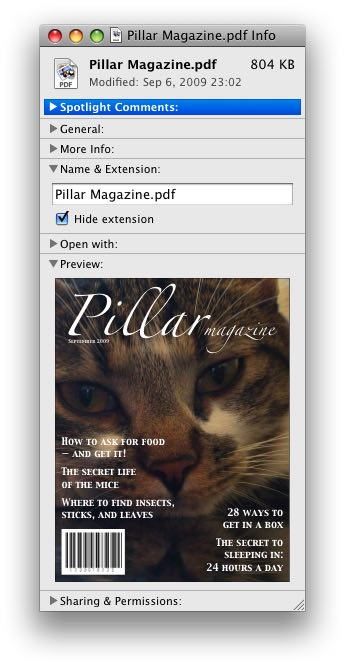
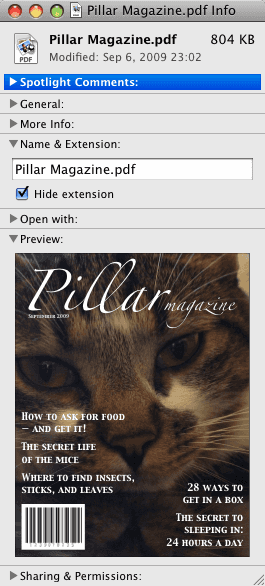
編集（画像調整

diff --git a/HTML-interactive-elements-ja.html b/HTML-interactive-elements-ja.html
@@ -1160,12 +1160,14 @@ table.propdef td {
 <img id="_dgm-sample-details-1"
 	src="HTML-interactive-elements/sample-details-1.png"
 	alt=""
-	width="345" height="611"
+	width="265" height="531"
+	style="box-shadow:0px 10px 10px 10px silver; margin: 20px;"
 >
 <img id="_dgm-sample-details-2"
 	src="HTML-interactive-elements/sample-details-2.png"
 	alt=""
-	width="345" height="666"
+	width="265" height="586"
+	style="box-shadow:0px 10px 10px 10px silver; margin: 20px;"
 >
 <img id="_dgm-sample-toolbar-1"
 	src="HTML-interactive-elements/sample-toolbar-1.png"
